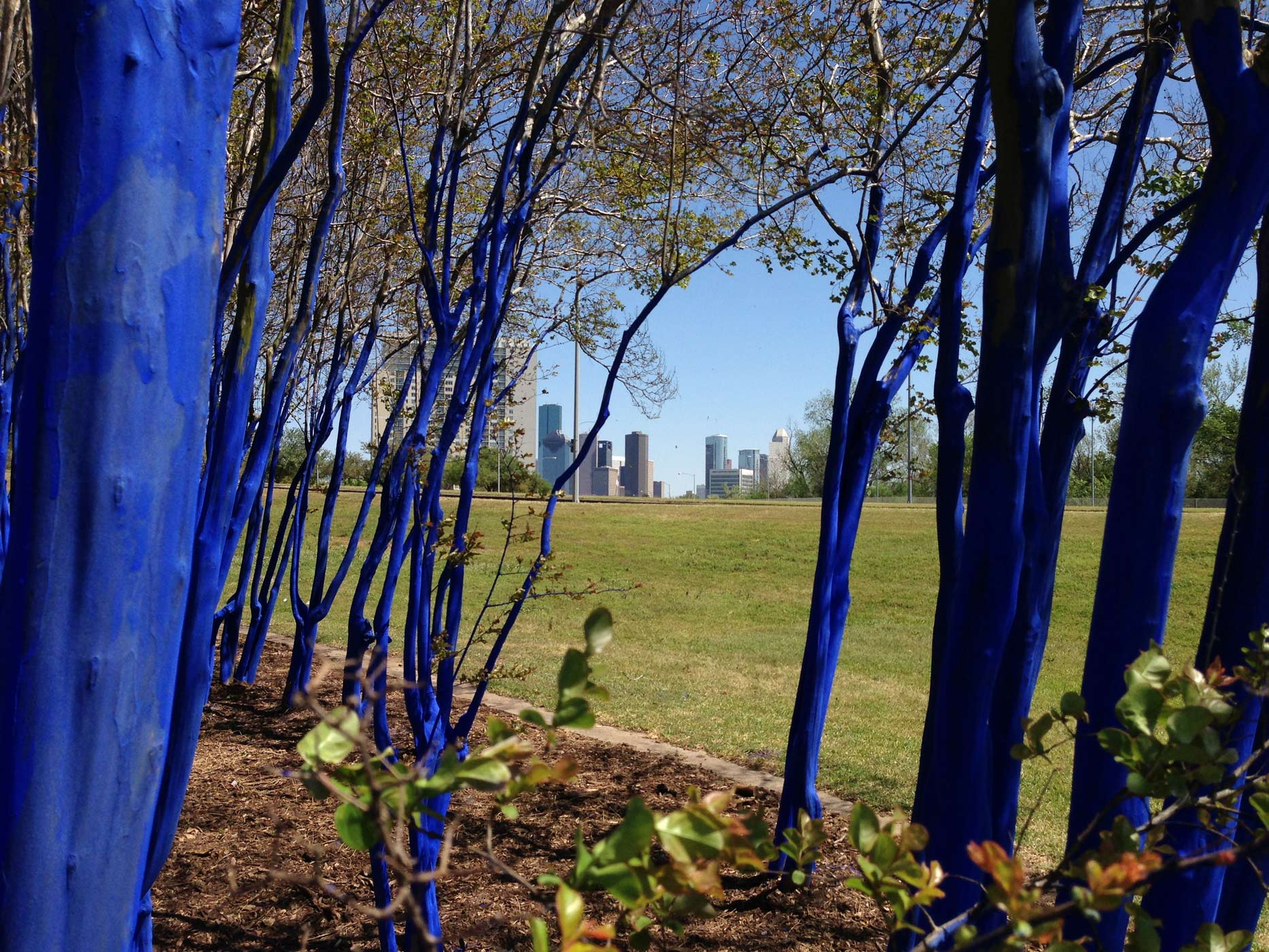
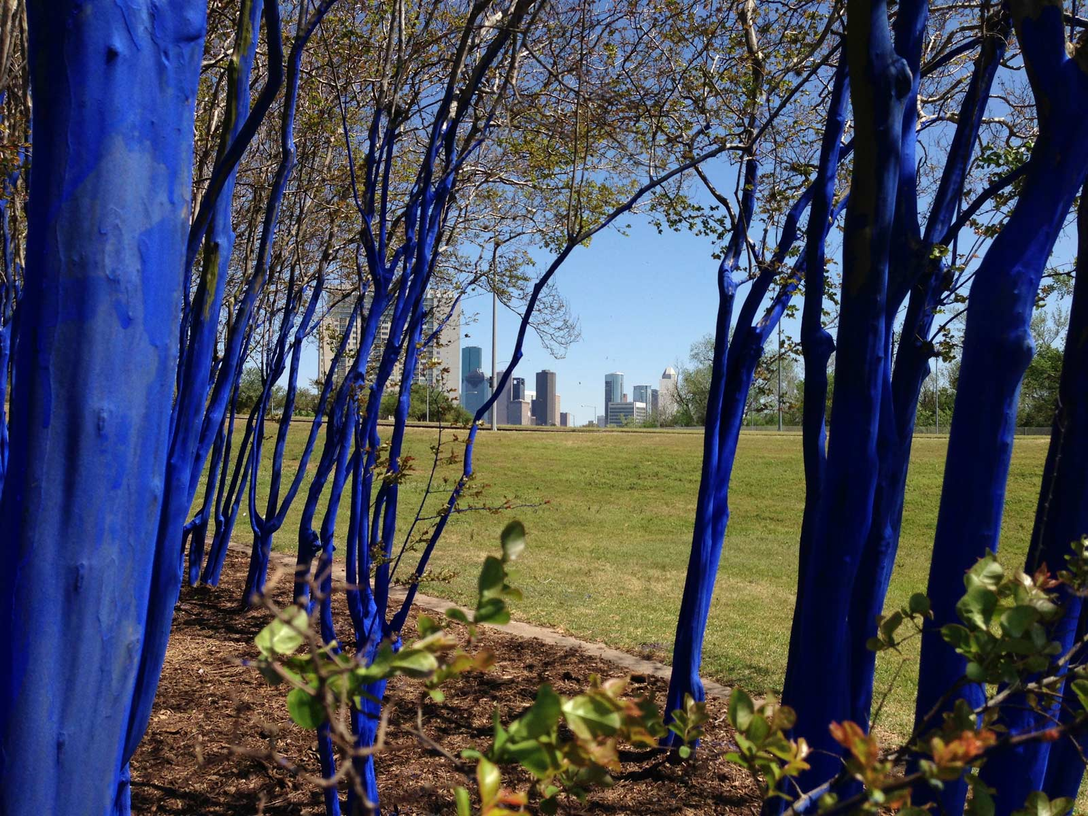
Standard Gallery SASS Complete (Including to @mobile)

diff --git a/css/style.css b/css/style.css
@@ -696,14 +696,19 @@ main.gallery {
     margin-bottom: 3.125em; }
   main.gallery img.full-width {
     width: 100%; }
-  main.gallery img.left-half,
-  main.gallery img.right-half {
-    position: absolute; }
-  main.gallery img.left-half {
-    left: 0; }
-  main.gallery img.right-half {
-    right: 0; }
+  main.gallery img.half-width {
+    width: 48%; }
+  main.gallery img.half-width.left {
+    float: left; }
+  main.gallery img.half-width.right {
+    float: right; }
 
+@media screen and (max-width: 48.125em) {
+  main.gallery img {
+    margin-bottom: 2.1875em; } }
+@media screen and (max-width: 38.125em) {
+  main.gallery img.half-width {
+    width: 100%; } }
 .hero.standard {
   position: relative;
   margin-bottom: 3.125em; }
@@ -728,14 +733,9 @@ main.gallery {
   .hero.standard img {
     box-shadow: 0 0.6875rem 0.4375rem 0 rgba(0, 0, 0, 0.19), 0 0.8125rem 1.5625rem 0 rgba(0, 0, 0, 0.3); }
 
-body#blue-trees .row {
-  position: relative;
-  height: 600px; }
-  body#blue-trees .row img#img-4 {
-    height: 100%; }
-  body#blue-trees .row img#img-5 {
-    height: 100%; }
-
+@media screen and (max-width: 48.125em) {
+  .hero.standard {
+    margin-bottom: 2.1875em; } }
 @media screen and (max-width: 66.875em) {
   body {
     background: red; } }

diff --git a/scss/pages/article/standard/_gallery.scss b/scss/pages/article/standard/_gallery.scss
@@ -12,16 +12,31 @@ main.gallery {
 		width: 100%;
 	}
 
-	img.left-half,
-	img.right-half {
-		position: absolute;
+	img.half-width {
+		width: 48%;
 	}
 
-	img.left-half {
-		left: 0;
+	img.half-width.left {
+		float: left;
 	}
 
-	img.right-half {
-		right: 0;
+	img.half-width.right {
+		float: right;
+	}
+}
+
+@include media($width-770) {
+	main.gallery {
+		img {
+			margin-bottom: em(35);
+		}
+	}
+}
+
+@include media($width-610) {
+	main.gallery {
+		img.half-width {
+			width: 100%;
+		}
 	}
 }

diff --git a/scss/pages/the-city/washington-ave/blue-trees-on-waugh/_blue-trees-on-waugh.scss b/scss/pages/the-city/washington-ave/blue-trees-on-waugh/_blue-trees-on-waugh.scss
@@ -1,18 +1,6 @@
 @import "../../../../settings/_settings.scss";
 
-body#blue-trees {
-	.row {
-		position: relative;
-		height: 600px;
 
-		img#img-4 {
-			height: 100%;
-		}
-		img#img-5 {
-			height: 100%;
-		}
-	}
-}
 
 
 

diff --git a/scss/pages/article/standard/_standard-article.scss b/scss/pages/article/standard/_standard-article.scss
@@ -40,3 +40,9 @@
 		box-shadow: $z-3;
 	}
 }
+
+@include media($width-770) {
+	.hero.standard {
+		margin-bottom: em(35);
+	}
+}

diff --git a/the-city/washington-ave/blue-trees-on-waugh.php b/the-city/washington-ave/blue-trees-on-waugh.php
@@ -54,11 +54,11 @@
 <main class="gallery">
 	<img id="img-1" class="full-width" srcset="/img/sets/blue-trees/gallery/blue-trees(1).jpg 1x, /img/sets/blue-trees/gallery/blue-trees(1)@2x.jpg 2x" alt="Blue Trees Panorama Shot #1">
 	<img id="img-2" class="full-width" srcset="/img/sets/blue-trees/gallery/blue-trees(2).jpg 1x, /img/sets/blue-trees/gallery/blue-trees(2)@2x.jpg 2x" alt="Blue Trees Panorama Shot #2">
-	<img id="img-3" class="full-width" srcset="/img/sets/blue-trees/gallery/blue-trees(3).jpg 1x, /img/sets/blue-trees/gallery/blue-trees(3)@2x.jpg 2x" alt="Blue Trees Panorama Shot #3">
 	<div class="row">
-		<img id="img-4" class="left-half" srcset="/img/sets/blue-trees/gallery/blue-trees(4).jpg 1x, /img/sets/blue-trees/gallery/blue-trees(4)@2x.jpg 2x" alt="Blue Trees Panorama Shot #4">
-		<img id="img-5" class="right-half" srcset="/img/sets/blue-trees/gallery/blue-trees(5).jpg 1x, /img/sets/blue-trees/gallery/blue-trees(5)@2x.jpg 2x" alt="Blue Trees Panorama Shot #5">
+		<img id="img-3" class="half-width left" srcset="/img/sets/blue-trees/gallery/blue-trees(4).jpg 1x, /img/sets/blue-trees/gallery/blue-trees(4)@2x.jpg 2x" alt="View of Downtown Houston Through the Blue Trees">
+		<img id="img-4" class="half-width right" srcset="/img/sets/blue-trees/gallery/blue-trees(5).jpg 1x, /img/sets/blue-trees/gallery/blue-trees(5)@2x.jpg 2x" alt="View From Inside the Circle of Blue Trees">
 	</div>
+	<img id="img-5" class="full-width" srcset="/img/sets/blue-trees/gallery/blue-trees(3).jpg 1x, /img/sets/blue-trees/gallery/blue-trees(3)@2x.jpg 2x" alt="Blue Trees Panorama Shot #3">
 </main>
 
 
